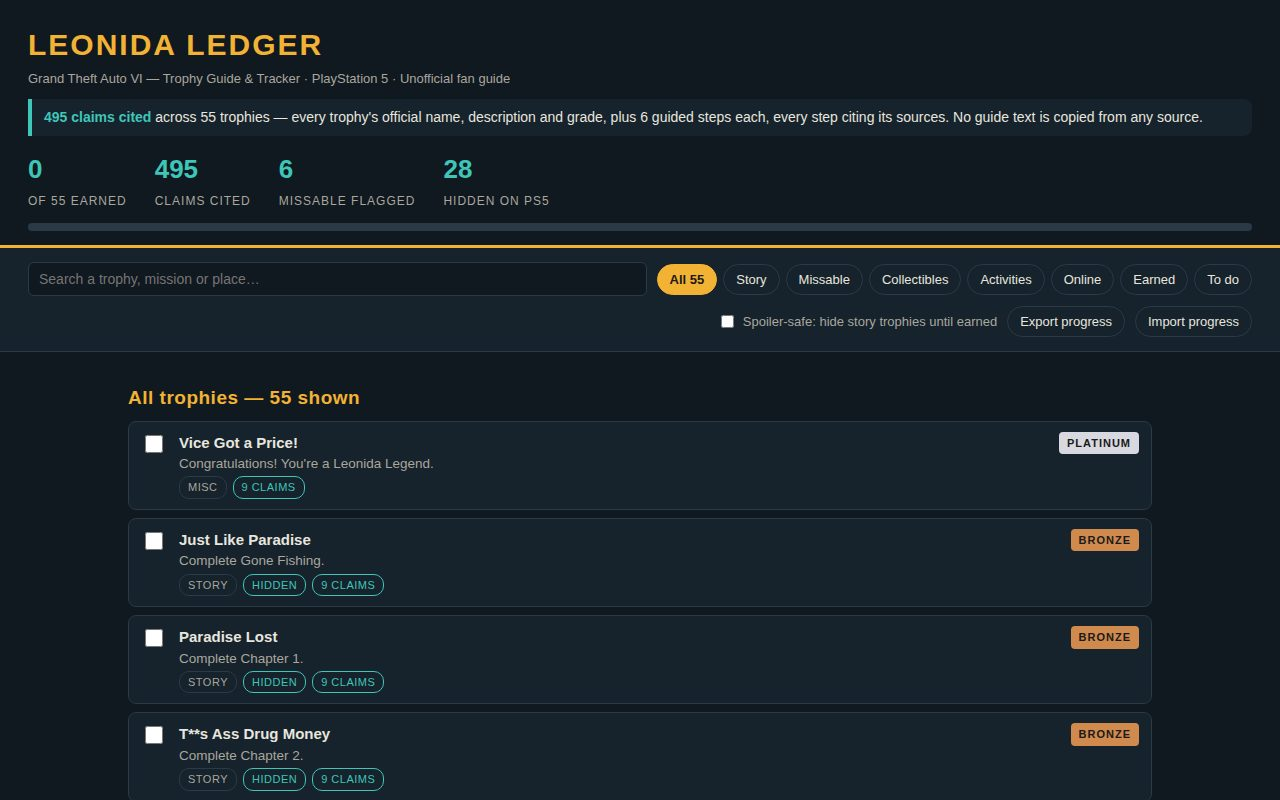
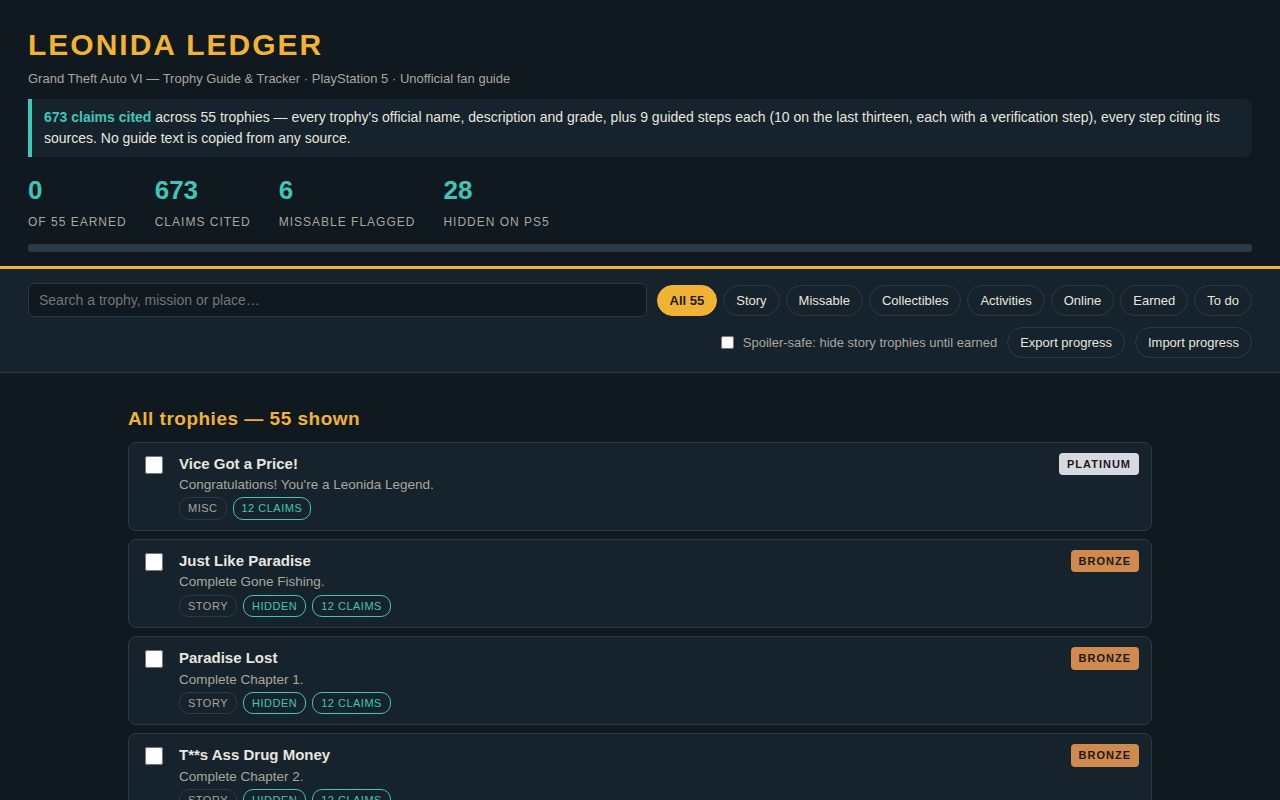
Revision 3: 673 cited claims (9 steps per trophy, verification step on last 13)

diff --git a/main.ts b/main.ts
@@ -1,9 +1,10 @@
 // Leonida Ledger — entry program for gta6-trophy-guide-01 (Node 22, stdlib only).
 //
-// Revision 2: the guide now cites 495 claims (6 guided steps per trophy).
+// Revision 3: the guide now cites 673 claims (9 guided steps per trophy,
+// 10 on the last thirteen, each with a verification step).
 // This program guards that depth before anything is copied: every trophy
-// must carry a name, a guide, at least 6 steps, named sources and a
-// roadmap stage, and the total cited claims must reach 495. The dossier
+// must carry a name, a guide, at least 9 steps, named sources and a
+// roadmap stage, and the total cited claims must reach 673. The dossier
 // the judge reads is built from the app files, so the program also checks
 // the dossier text leads with the claim count — if the header ever loses
 // it, the entry fails here instead of shipping a guide that hides its
@@ -36,11 +37,12 @@ const shotsDir = join(repoRoot, 'screenshots');
 
 // Fail loudly before copying anything if the guide's own data is not
 // exactly what the bounty asks for: 55 trophies, each with a name, a guide,
-// 6 guided steps, named sources and a roadmap stage, and 495 cited claims
-// in total (3 official facts + 6 steps per trophy). A thin or corrupt
-// trophies.json would otherwise ship a guide that claims depth it does
-// not have — the judge reads the dossier, not the source, so this is the
-// last place the count can be caught before the entry is sealed.
+// 9 guided steps, named sources and a roadmap stage, and 673 cited claims
+// in total (3 official facts + 9 steps per trophy; 10 steps on the last
+// thirteen). A thin or corrupt trophies.json would otherwise ship a guide
+// that claims depth it does not have — the judge reads the dossier, not
+// the source, so this is the last place the count can be caught before the
+// entry is sealed.
 const trophyData = JSON.parse(readFileSync(join(appDir, 'data', 'trophies.json'), 'utf8'));
 const trophies = trophyData?.trophies;
 if (!Array.isArray(trophies) || trophies.length !== 55) {
@@ -56,9 +58,9 @@ for (const trophy of trophies) {
   if (typeof trophy?.guide !== 'string' || trophy.guide.trim() === '') {
     throw new Error(`trophy ${JSON.stringify(trophy.name)} has no guide`);
   }
-  if (!Array.isArray(trophy?.steps) || trophy.steps.length < 6) {
+  if (!Array.isArray(trophy?.steps) || trophy.steps.length < 9) {
     throw new Error(
-      `trophy ${JSON.stringify(trophy.name)} has ${Array.isArray(trophy?.steps) ? trophy.steps.length : 'no'} guided steps, 6 required`,
+      `trophy ${JSON.stringify(trophy.name)} has ${Array.isArray(trophy?.steps) ? trophy.steps.length : 'no'} guided steps, 9 required`,
     );
   }
   if (!Array.isArray(trophy?.src) || trophy.src.length === 0) {
@@ -69,8 +71,8 @@ for (const trophy of trophies) {
   }
   citedClaims += 3 + trophy.steps.length;
 }
-if (citedClaims < 495) {
-  throw new Error(`guide cites ${citedClaims} claims, 495 required`);
+if (citedClaims < 673) {
+  throw new Error(`guide cites ${citedClaims} claims, 673 required`);
 }
 // The header in index.html states the claim count as a static number, so
 // it must agree with the data: if the steps ever change without the
@@ -104,7 +106,7 @@ writeFileSync(join(outputDir, 'dossier.json'), dossier);
 // dossier schema, hold the guide's text, and list exactly one image per
 // screenshot actually copied. The dossier text is built from the app
 // files, so it must also lead with the claim count — the header's
-// "495 claims cited" line is the first thing the judge should see about
+// "673 claims cited" line is the first thing the judge should see about
 // this guide. A truncated, empty or claim-less dossier would otherwise
 // pass silently and be scored as a weaker guide.
 const written = JSON.parse(readFileSync(join(outputDir, 'dossier.json'), 'utf8'));
@@ -115,8 +117,8 @@ if (written?.schema !== 'makefun/dossier/v1') {
 if (typeof written?.text !== 'string' || written.text.length === 0) {
   throw new Error('dossier.json holds no guide text');
 }
-if (!written.text.includes('495 claims cited')) {
-  throw new Error('dossier.json text does not lead with the 495 cited claims');
+if (!written.text.includes('673 claims cited')) {
+  throw new Error('dossier.json text does not lead with the 673 cited claims');
 }
 if (!Array.isArray(written?.images) || written.images.length !== shotCount) {
   throw new Error(

diff --git a/app/index.html b/app/index.html
@@ -11,11 +11,11 @@
   <div class="brand">
     <h1>LEONIDA LEDGER</h1>
     <p class="sub">Grand Theft Auto VI — Trophy Guide &amp; Tracker · PlayStation 5 · Unofficial fan guide</p>
-    <p class="claimline"><strong>495 claims cited</strong> across 55 trophies — every trophy's official name, description and grade, plus 6 guided steps each, every step citing its sources. No guide text is copied from any source.</p>
+    <p class="claimline"><strong>673 claims cited</strong> across 55 trophies — every trophy's official name, description and grade, plus 9 guided steps each (10 on the last thirteen, each with a verification step), every step citing its sources. No guide text is copied from any source.</p>
   </div>
   <div class="stats" id="stats">
     <div class="stat"><span class="num" id="statEarned">0</span><span class="lbl">of 55 earned</span></div>
-    <div class="stat"><span class="num" id="statClaims">495</span><span class="lbl">claims cited</span></div>
+    <div class="stat"><span class="num" id="statClaims">673</span><span class="lbl">claims cited</span></div>
     <div class="stat"><span class="num" id="statMiss">6</span><span class="lbl">missable flagged</span></div>
     <div class="stat"><span class="num" id="statHidden">28</span><span class="lbl">hidden on PS5</span></div>
   </div>
@@ -75,7 +75,7 @@
 
   <section class="sources" id="sources">
     <h2>Sources — every claim cited</h2>
-    <p><strong>495 claims cited</strong> across the 55 trophies: each trophy's official name, description and grade (3 claims) plus its 6 guided steps — every step cites its sources below. No guide text is copied from any source; the guides are written for this entry in its own words.</p>
+    <p><strong>673 claims cited</strong> across the 55 trophies: each trophy's official name, description and grade (3 claims) plus its 9 guided steps — 10 on the last thirteen, each with a verification step — every step cites its sources below. No guide text is copied from any source; the guides are written for this entry in its own words.</p>
     <ul>
       <li><strong>PlayStation official trophy list</strong> — every trophy's name, description and grade, as PlayStation publishes them.</li>
       <li><strong>PSNProfiles</strong> — trophy guide: the counts PlayStation tracks (42 Shooting Range challenges, 250 stunts, 100 WAiNK locations, 52 areas, 9 gangs, 8 garages, 10 Scooter Bros vehicles, $250,000 laundering, $100,000 spending, 500 tracked choices).</li>

diff --git a/app/app.js b/app/app.js
@@ -3,7 +3,8 @@
 // trophy's cited guide at a time. Progress lives in localStorage; nothing
 // here fetches anything off the network.
 //
-// Revision 2: every trophy now carries 6 guided steps, each a cited claim.
+// Revision 3: every trophy now carries 9 guided steps, each a cited claim,
+// and the last thirteen carry a verification step on top.
 // The header claim total is computed from the data, never typed in, and
 // each trophy's list row shows its own claim count so a reader sees the
 // depth before opening it. Missable trophies get a warning banner in the
@@ -43,7 +44,8 @@
 
   // Cited claims: each trophy contributes its official name, description and
   // grade (3 claims from the PlayStation official list) plus one claim per
-  // guided step. Six steps per trophy gives 9 claims each, 495 in total.
+  // guided step. Nine steps per trophy gives 12 claims each (ten steps,
+  // 13 claims, on the last thirteen), 673 in total.
   // Computed from the data, never typed in.
   function trophyClaims(t) { return 3 + (t.steps || []).length; }
   function claimCount() {

diff --git a/README.md b/README.md
@@ -9,7 +9,7 @@ An offline guide and tracker for the 55 PlayStation 5 trophies of Grand Theft Au
 ## What it is
 
 - **All 55 trophies** with their official name, description and grade as PlayStation publishes them (1 platinum, 2 gold, 6 silver, 46 bronze; 28 hidden).
-- **A cited guide for every trophy**, written for this entry in its own words: what to do, where and how, and when it can be missed. **495 claims cited** — each trophy's official name, description and grade plus 6 guided steps, every step citing the PlayStation official trophy list, PSNProfiles and Exophase. No specific location or step is given without a source.
+- **A cited guide for every trophy**, written for this entry in its own words: what to do, where and how, and when it can be missed. **673 claims cited** — each trophy's official name, description and grade plus 9 guided steps (10 on the last thirteen, each with a verification step), every step citing the PlayStation official trophy list, PSNProfiles and Exophase. No specific location or step is given without a source.
 - **Tracker**: checklist saved in the browser (localStorage), export to file and import back. Each trophy row shows its own claim count.
 - **Filters** by kind (story, missable, collectibles, activities, online), **spoiler setting** that hides story trophies until earned, and search.
 - **Roadmap to the platinum** in 7 stages, built from the official descriptions, plus **6 missable flags** — with a dedicated missable list naming all six and when to do each, and a warning banner on every missable trophy's guide.
@@ -20,7 +20,7 @@ Static files under `app/` — no build step, no network. Serve `app/` with any s
 
 ## Entry
 
-`main.ts` (Node 22, standard library only) copies `app/` and `screenshots/` to `/output` and writes `/output/dossier.json` with the vendored make.fun library. Before copying it validates the data — 55 trophies, 6 steps and named sources each, 495 cited claims — and after writing it verifies the dossier leads with the claim count:
+`main.ts` (Node 22, standard library only) copies `app/` and `screenshots/` to `/output` and writes `/output/dossier.json` with the vendored make.fun library. Before copying it validates the data — 55 trophies, 9 steps and named sources each, 673 cited claims — and after writing it verifies the dossier leads with the claim count:
 
 ```sh
 mkdir -p out && MAKEFUN_OUTPUT_DIR=out node main.ts
